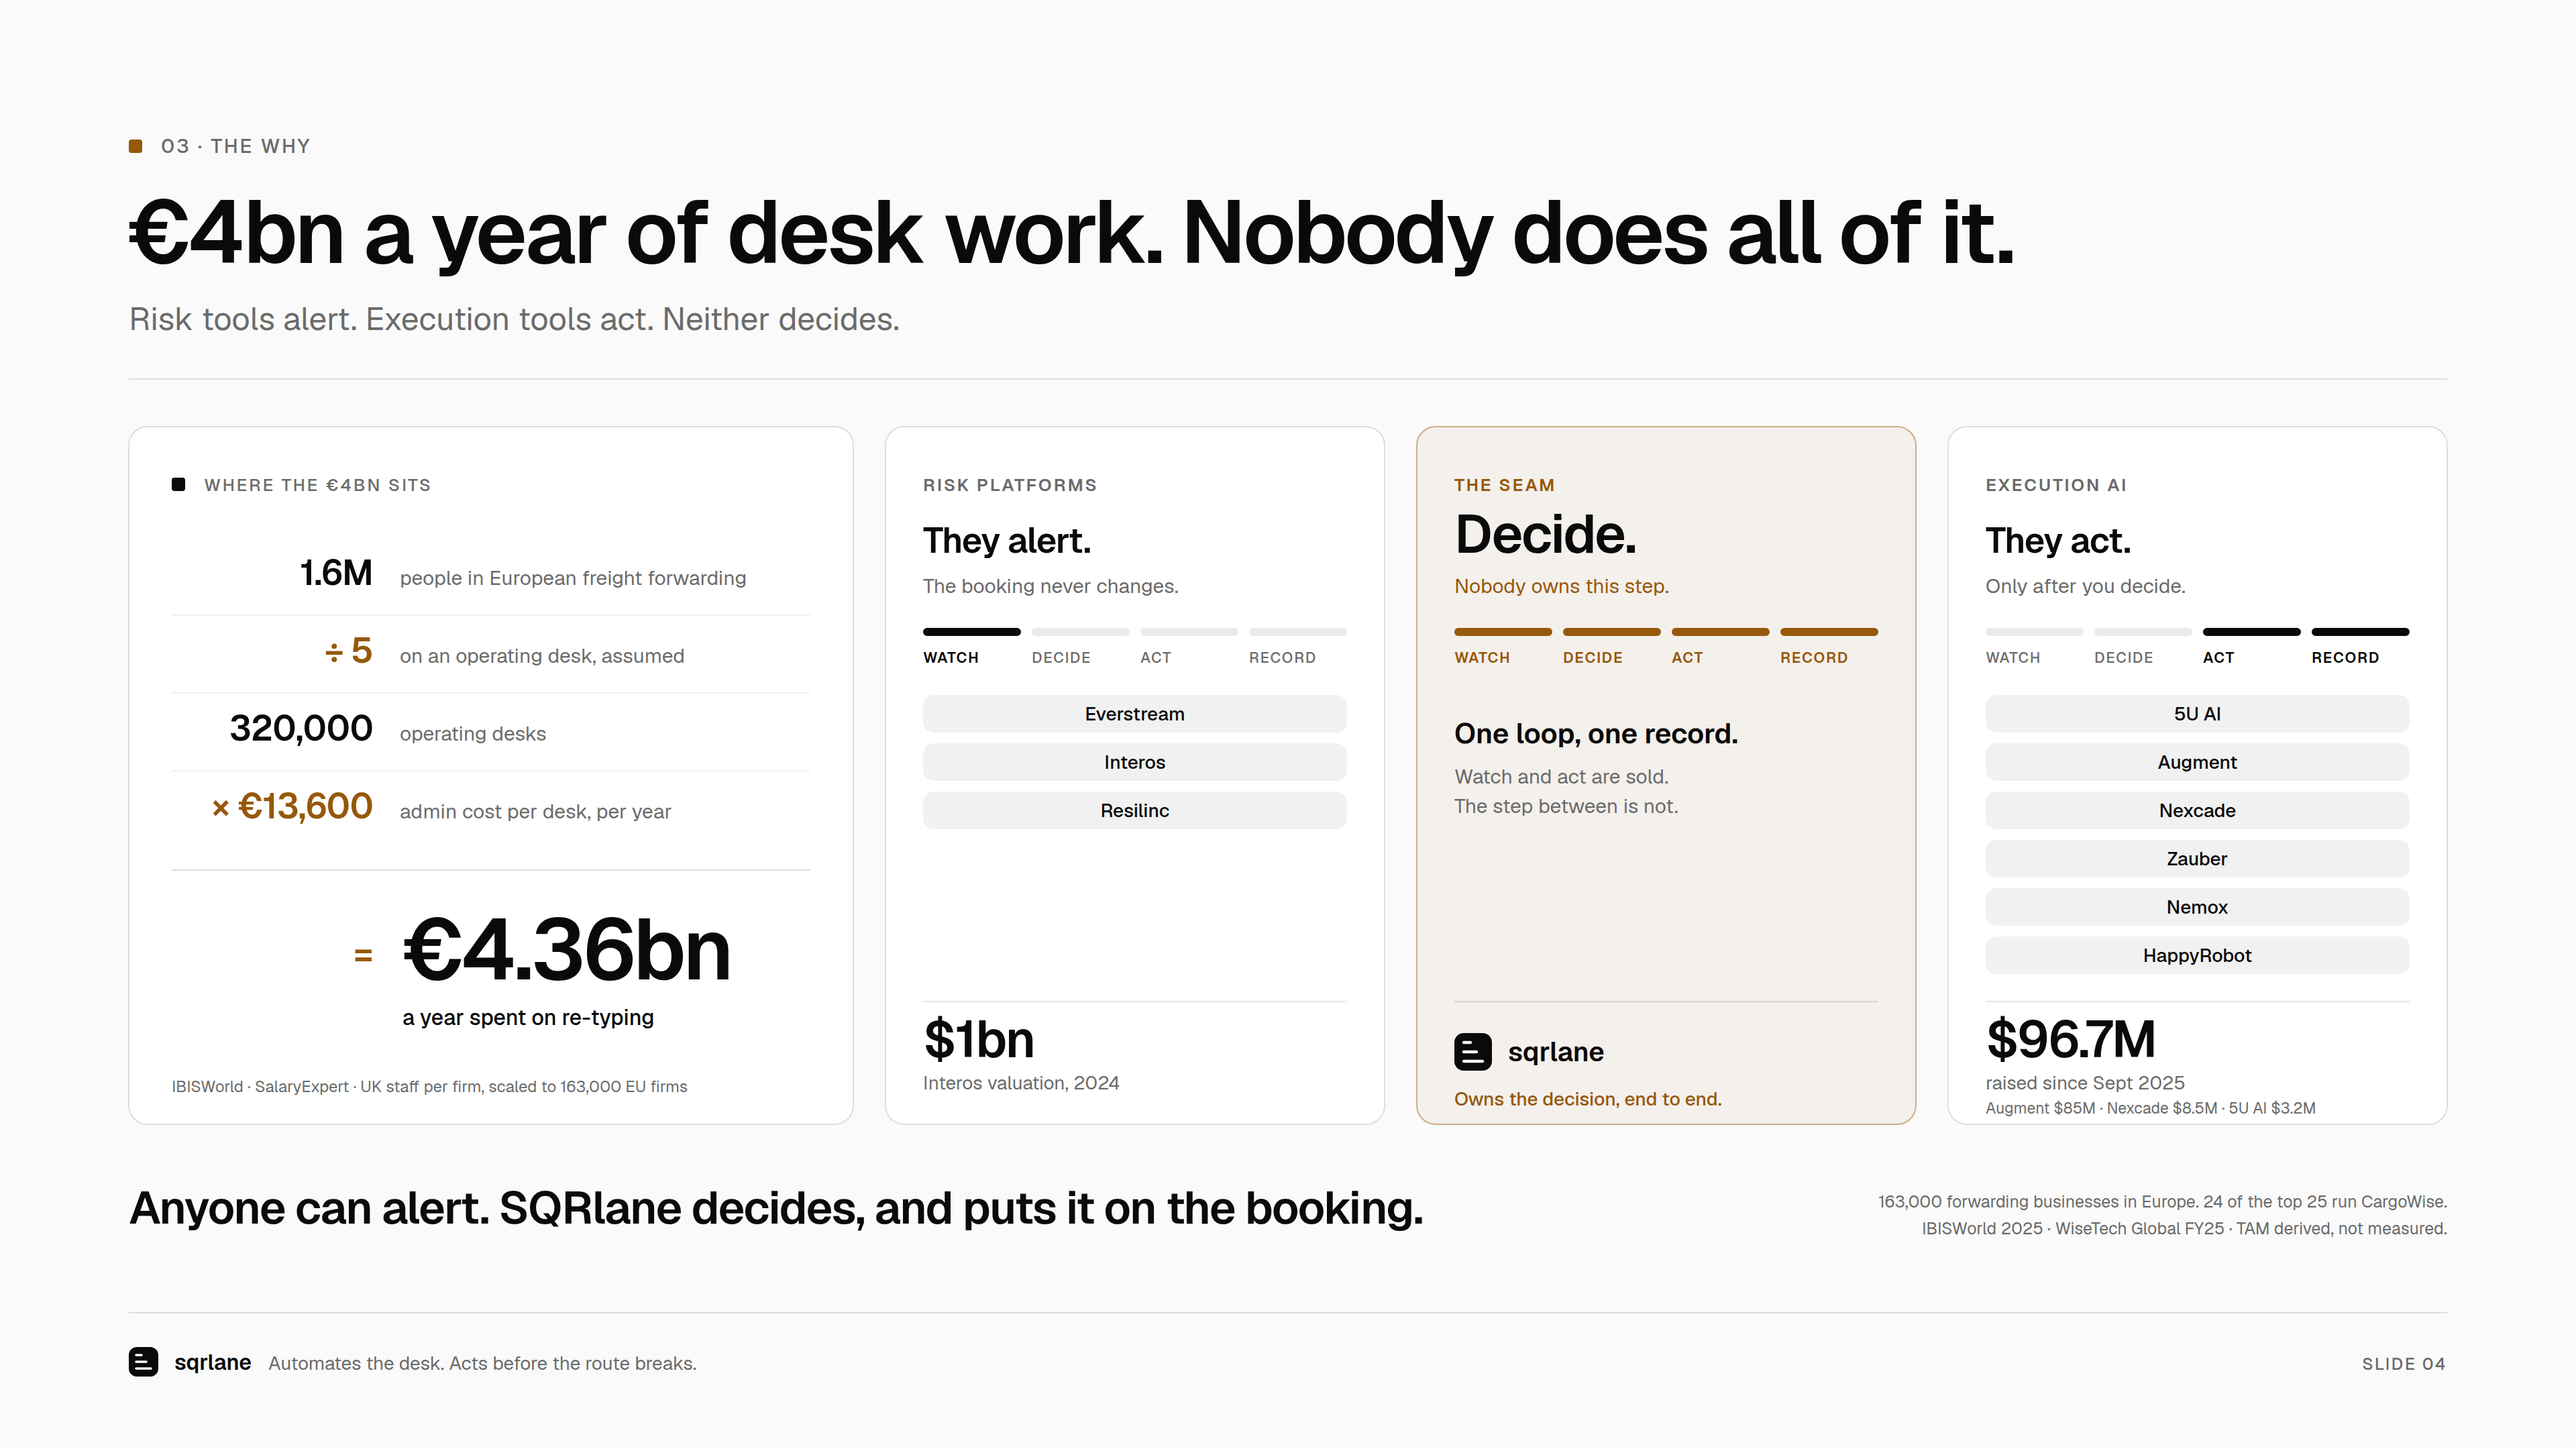
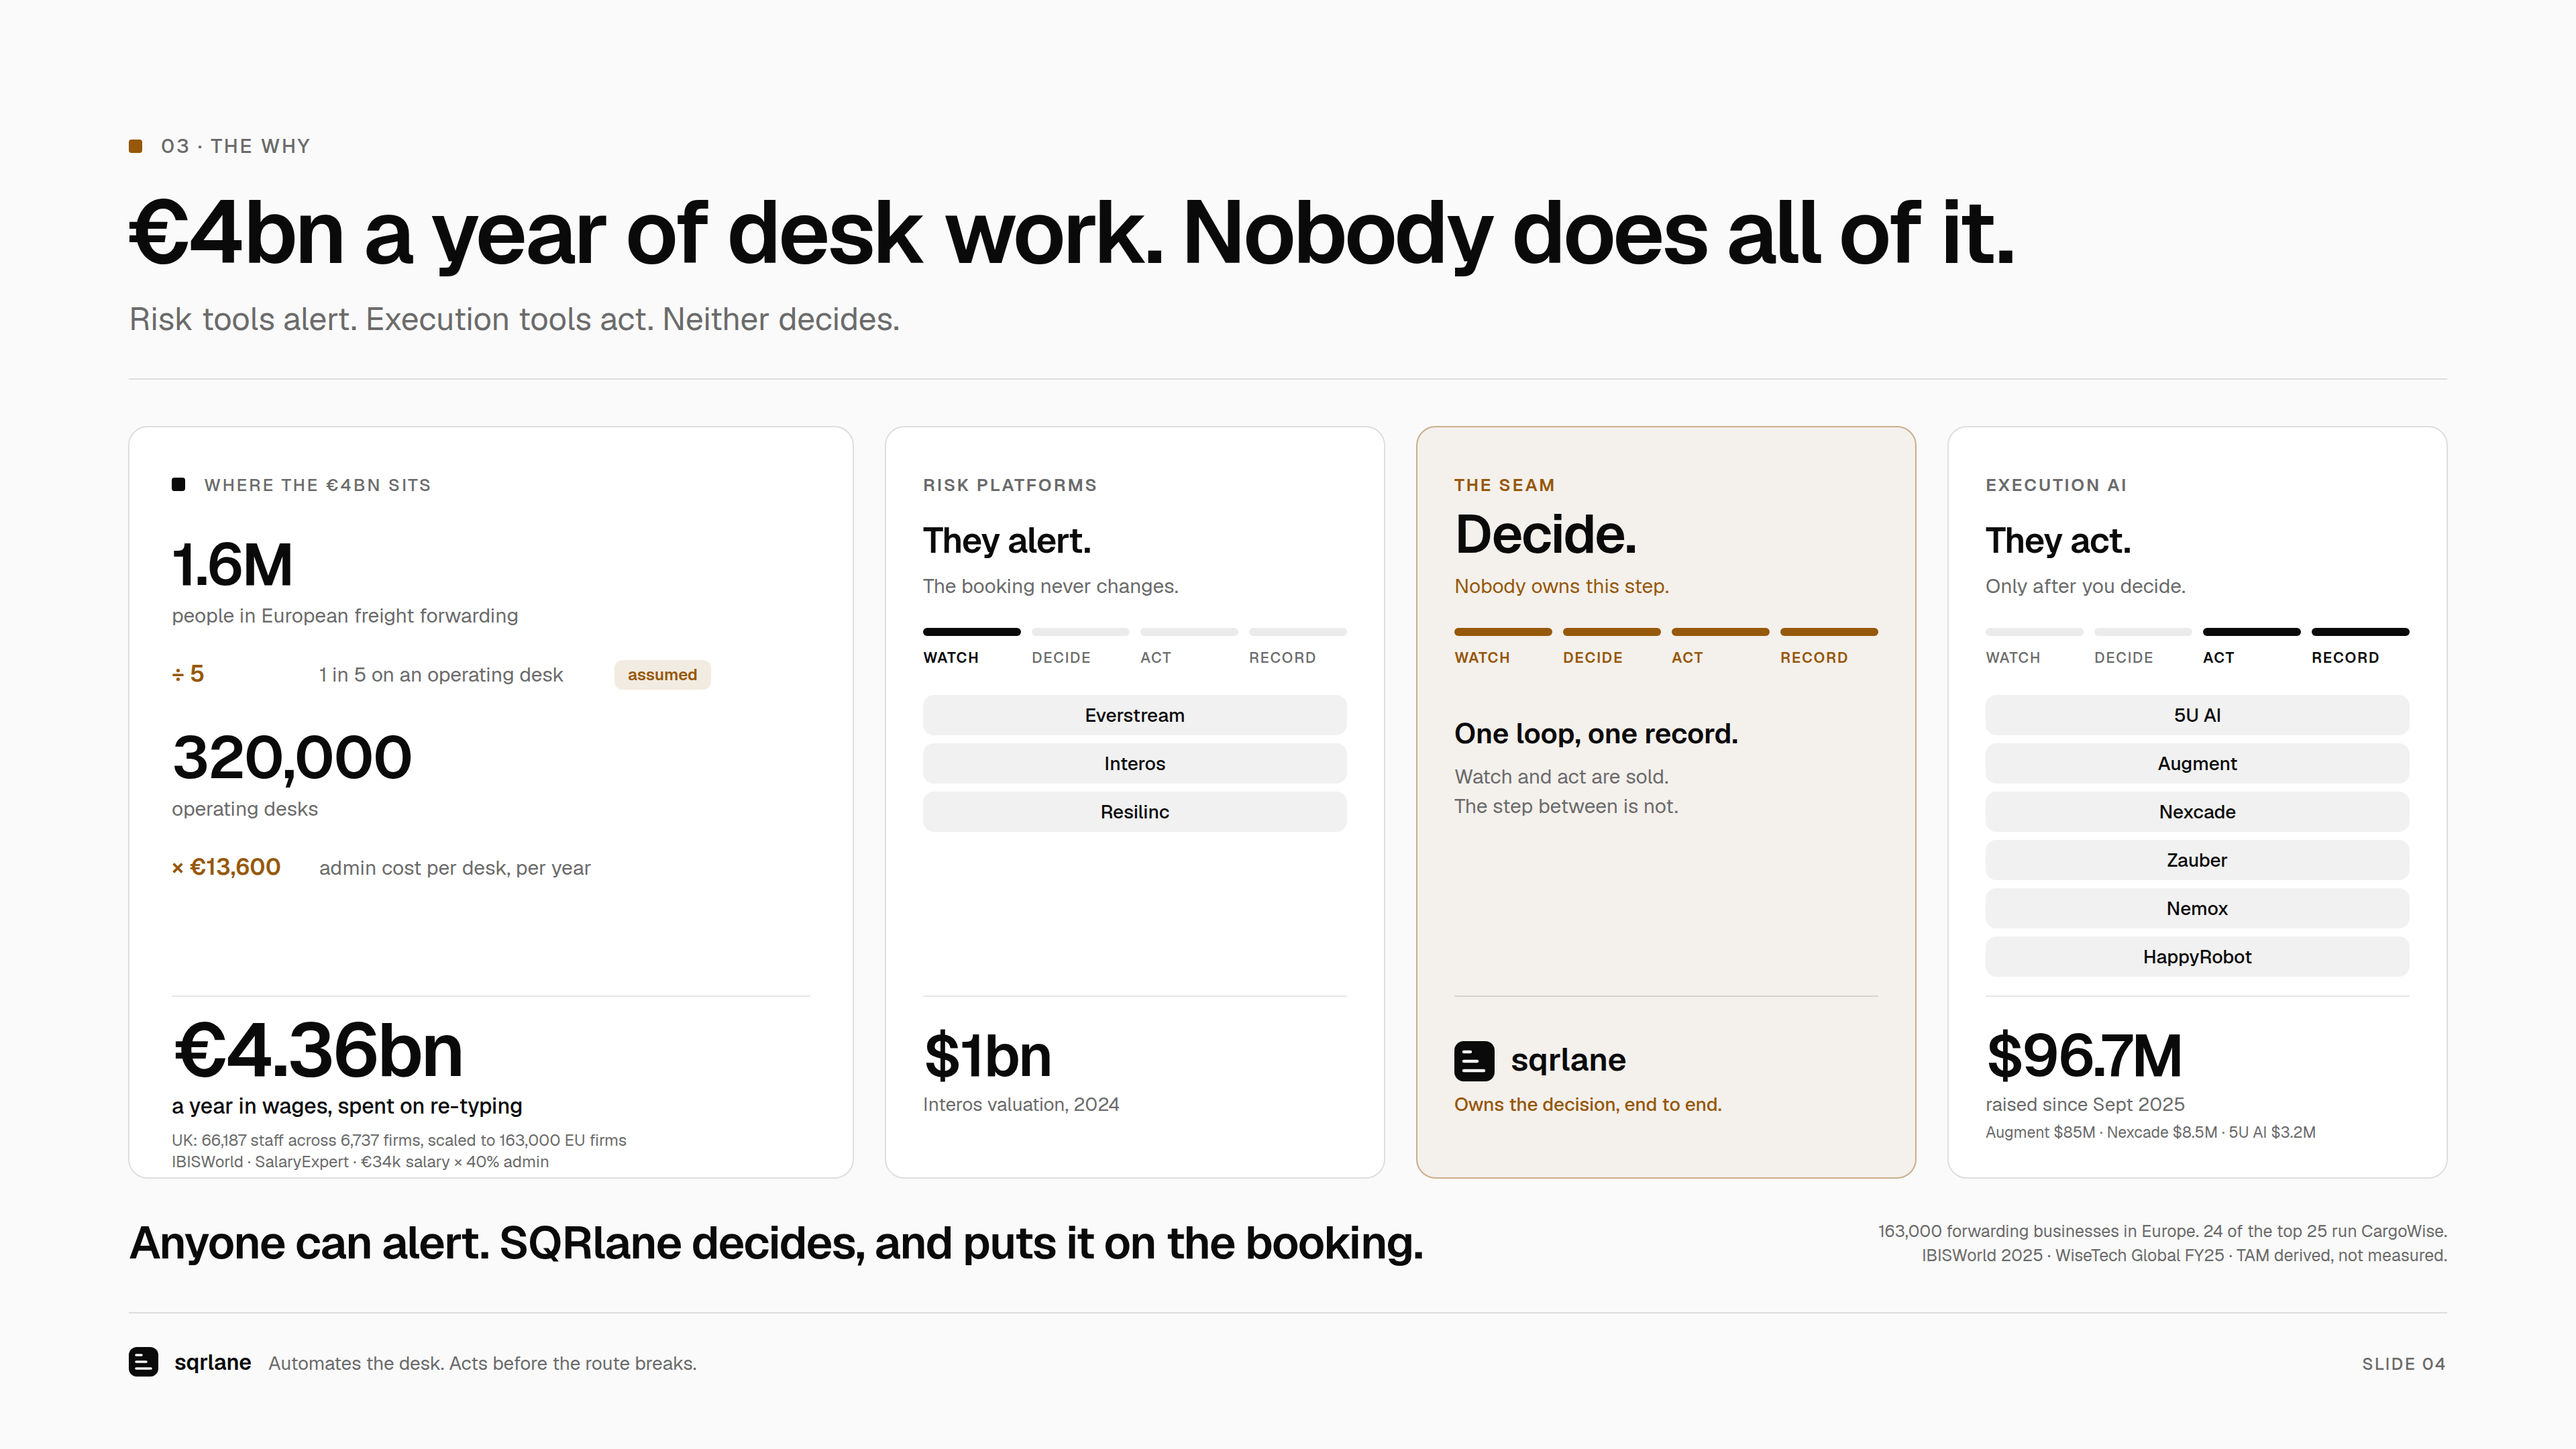
Deck v2 slide 04: earlier market card back, taller cards on one bottom grid
All four cards share the rule, figure and caption baselines. Nemox's
funding is not shown: no reliable figure found.

Claude-Session: https://claude.ai/code/session_01HbtpjYfXPKy7DdRHDFrJUP

diff --git a/deck/v2/build_04.py b/deck/v2/build_04.py
@@ -5,7 +5,8 @@ s = Slide()
 s.header("03 · THE WHY", "€4bn a year of desk work. Nobody does all of it.",
          "Risk tools alert. Execution tools act. Neither decides.")
 
-Y, HGT = 318, 520
+Y, HGT = 318, 560
+RULE, BIG, CAP, SRC = Y + 424, Y + 484, Y + 510, Y + 530   # shared bottom grid
 
 # ---- the market, counted
 LX, LW = M, 540
@@ -13,22 +14,22 @@ s.g("where-the-4bn-sits")
 s.card(LX, Y, LW, HGT)
 x = LX + 32
 s.label(x, Y + 48, "WHERE THE €4BN SITS", INK, 13)
-VX = x + 150                      # values right-aligned here, words start after
-rows = [("1.6M", "people in European freight forwarding", INK),
-        ("÷ 5", "on an operating desk, assumed", AMB),
-        ("320,000", "operating desks", INK),
-        ("× €13,600", "admin cost per desk, per year", AMB)]
-for i, (v, lab, col) in enumerate(rows):
-    ry = Y + 118 + i * 58
-    s.T(VX, ry, v, 26, 600, col, anchor="end", ls=-0.5)
-    s.T(VX + 20, ry, lab, 15, 400, MUT)
-    if i < 3:
-        s.rule(ry + 22, 0.06, x, LW - 64)
-s.rule(Y + 330, 0.14, x, LW - 64)
-s.T(VX, Y + 402, "=", 26, 600, AMB, anchor="end")
-s.T(VX + 20, Y + 412, "€4.36bn", 64, 600, ls=-2)
-s.T(VX + 22, Y + 446, "a year spent on re-typing", 16, 500)
-s.T(x, Y + 496, "IBISWorld · SalaryExpert · UK staff per firm, scaled to 163,000 EU firms", 12, 400, MUT)
+def step(y, big, lab):
+    s.T(x, y, big, 44, 600, ls=-1.2); s.T(x, y + 28, lab, 15, 400, MUT)
+def op(y, sym, lab, chip=None):
+    s.T(x, y, sym, 17, 600, AMB); s.T(x + 110, y, lab, 15, 400, MUT)
+    if chip:
+        s.R(x + 330, y - 16, 72, 22, AMB, 6, ' fill-opacity="0.12"')
+        s.T(x + 366, y - 1, chip, 12, 600, AMB, anchor="middle")
+step(Y + 118, "1.6M", "people in European freight forwarding")
+op(Y + 190, "÷ 5", "1 in 5 on an operating desk", "assumed")
+step(Y + 262, "320,000", "operating desks")
+op(Y + 334, "× €13,600", "admin cost per desk, per year")
+s.rule(RULE, 0.1, x, LW - 64)
+s.T(x, BIG, "€4.36bn", 56, 600, ls=-1.6)
+s.T(x, CAP + 2, "a year in wages, spent on re-typing", 16, 500)
+s.T(x, SRC + 6, "UK: 66,187 staff across 6,737 firms, scaled to 163,000 EU firms", 12, 400, MUT)
+s.T(x, SRC + 22, "IBISWorld · SalaryExpert · €34k salary × 40% admin", 12, 400, MUT)
 s.end()
 
 # ---- three columns: risk platforms, the seam, execution AI
@@ -64,28 +65,28 @@ for i, (idn, lab, title, sub, on, vendors, big, cap, src) in enumerate(cols):
         s.T(bx, Y + 176, nm, 11, 600 if active else 500, hi if active else MUT, ls=0.8)
     if vendors:
         for k, v in enumerate(vendors):
-            s.R(ix, Y + 200 + k * 36, CW3 - 56, 28, TRACK, 8, ' fill-opacity="0.7"')
-            s.T(ix + (CW3 - 56) / 2, Y + 219 + k * 36, v, 14, 500, anchor="middle")
-        s.rule(Y + 428, 0.1, ix, CW3 - 56)
-        s.T(ix, Y + 470, big, 38, 600, ls=-1)
-        s.T(ix, Y + 494, cap, 14, 400, MUT)
+            s.R(ix, Y + 200 + k * 36, CW3 - 56, 30, TRACK, 8, ' fill-opacity="0.7"')
+            s.T(ix + (CW3 - 56) / 2, Y + 220 + k * 36, v, 14, 500, anchor="middle")
+        s.rule(RULE, 0.1, ix, CW3 - 56)
+        s.T(ix, BIG, big, 44, 600, ls=-1.2)
+        s.T(ix, CAP, cap, 14, 400, MUT)
         if src:
-            s.T(ix, Y + 512, src, 11.5, 400, MUT)
+            s.T(ix, SRC, src, 11.5, 400, MUT)
     else:
         s.T(ix, Y + 236, "One loop, one record.", 21, 600)
         s.T(ix, Y + 266, "Watch and act are sold.", 15, 400, MUT)
         s.T(ix, Y + 288, "The step between is not.", 15, 400, MUT)
-        s.rule(Y + 428, 0.12, ix, CW3 - 56)
-        s.R(ix, Y + 452, 28, 28, INK, 7)
-        s.raw(f'<path d="M{ix+7} {Y+473}h14 M{ix+7} {Y+466}h9.5 M{ix+7} {Y+459}h5" stroke="{BG}" stroke-width="2.2" stroke-linecap="round" fill="none"/>')
-        s.T(ix + 40, Y + 473, "sqrlane", 20, 600)
-        s.T(ix, Y + 506, "Owns the decision, end to end.", 14, 500, AMB)
+        s.rule(RULE, 0.12, ix, CW3 - 56)
+        s.R(ix, BIG - 26, 30, 30, INK, 7)
+        s.raw(f'<path d="M{ix+7} {BIG-4}h15 M{ix+7} {BIG-11}h10 M{ix+7} {BIG-18}h5" stroke="{BG}" stroke-width="2.2" stroke-linecap="round" fill="none"/>')
+        s.T(ix + 42, BIG - 4, "sqrlane", 24, 600)
+        s.T(ix, CAP, "Owns the decision, end to end.", 14, 500, AMB)
     s.end()
 
 s.g("closing")
-s.T(M, 912, "Anyone can alert. SQRlane decides, and puts it on the booking.", 34, 600, ls=-0.8)
-s.T(W - M, 900, "163,000 forwarding businesses in Europe. 24 of the top 25 run CargoWise.", 12.5, 400, MUT, anchor="end")
-s.T(W - M, 920, "IBISWorld 2025 · WiseTech Global FY25 · TAM derived, not measured.", 12.5, 400, MUT, anchor="end")
+s.T(M, 938, "Anyone can alert. SQRlane decides, and puts it on the booking.", 34, 600, ls=-0.8)
+s.T(W - M, 922, "163,000 forwarding businesses in Europe. 24 of the top 25 run CargoWise.", 12.5, 400, MUT, anchor="end")
+s.T(W - M, 940, "IBISWorld 2025 · WiseTech Global FY25 · TAM derived, not measured.", 12.5, 400, MUT, anchor="end")
 s.end()
 s.footer(4)
 s.write("slide-04-the-why.svg")
